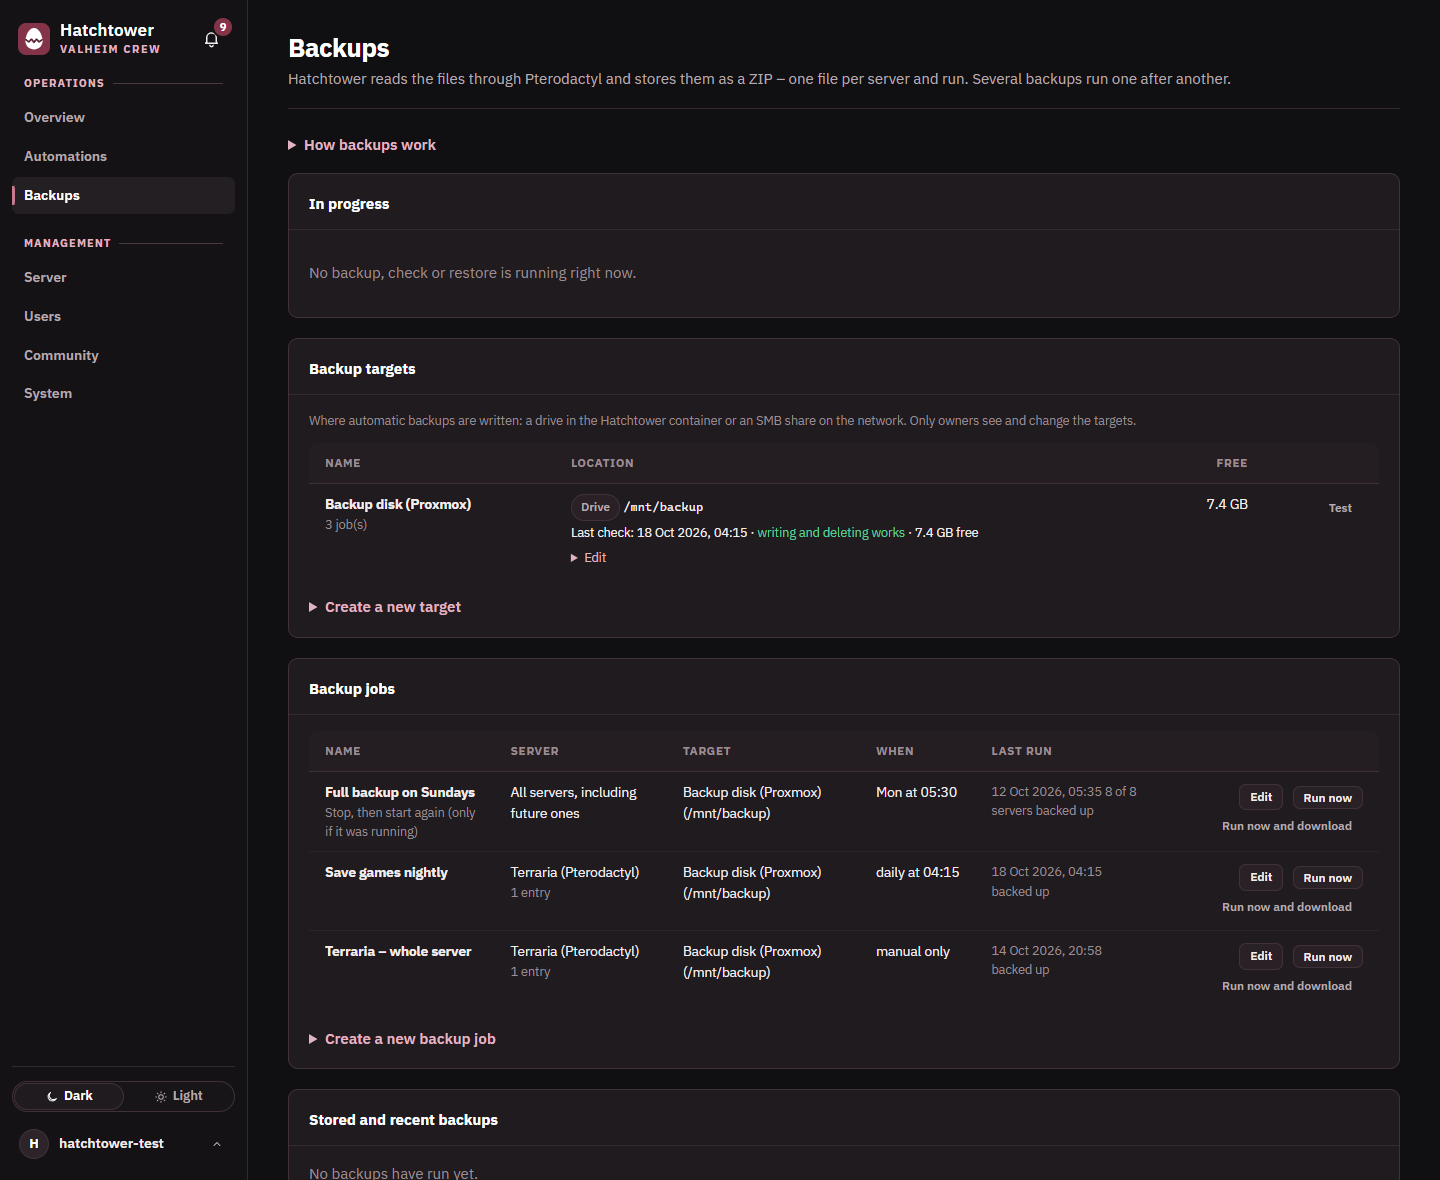
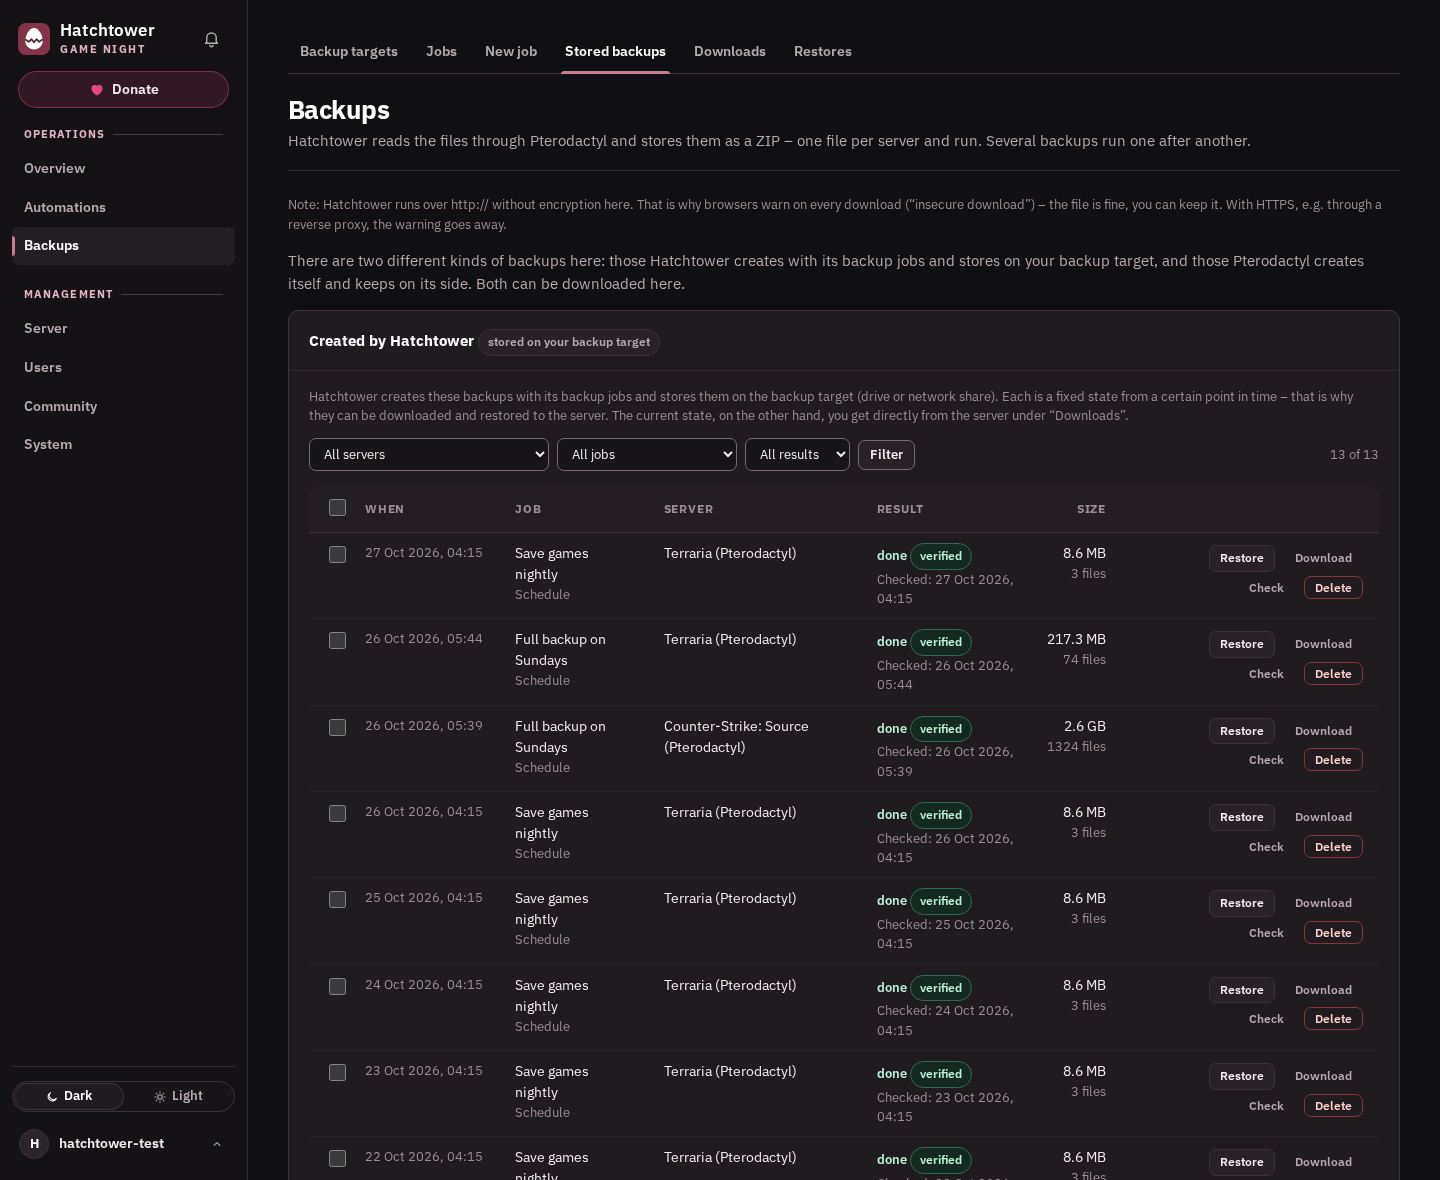
Version 0.42.0: donations, backup and automation improvements, README and screenshots up to date

diff --git a/app/hatchtower/__init__.py b/app/hatchtower/__init__.py
@@ -1,4 +1,4 @@
 """Hatchtower - Management und Monitoring für Pterodactyl-Game-Server."""
 
 APP_NAME = "Hatchtower"
-__version__ = "0.42.0-pre.5"
+__version__ = "0.42.0"

diff --git a/README.de.md b/README.de.md
@@ -72,14 +72,20 @@ deshalb Hatchtower: eine kleine, sichere Haustür, hinter der das Panel im Heimn
 
 - **Einfache Ansicht** für Freunde: Status, Adresse, Beitritts-Passwort, Starten/Neustarten – auch am Handy
 - **Übersicht** mit CPU, RAM und Speicher live, Favoriten und Tags; Serverseite mit Verlauf, Verfügbarkeit und **Live-Konsole**
+- **Spielstand mit einem Klick**: „Spielstand herunterladen“ auf der Serverseite, als ZIP des aktuellen Stands
 - **Reiter Spieler**: Ist jemand online? Aus der Query des Spiels (Steam, Minecraft) oder der Konsole, sonst aus dem
   Netzwerk-Traffic geschätzt – immer mit der Quelle, die entschieden hat, und einem kurzen Verlauf
 - **Dateiverwaltung**: ansehen, hochladen, herunterladen (auch als ZIP), bearbeiten, umbenennen, löschen
 - **Rechte pro Benutzer und Server**, Rechtegruppen im direkten Vergleich und **Einladungslinks**
-- **Automationen**: Neustart nach Absturz, geplantes Starten/Stoppen/Neustarten mit Vorwarnung im Spiel
-- **Backups** auf ein Laufwerk oder eine SMB-Freigabe, nach dem Schreiben geprüft und mit wenigen Klicks **wiederherstellbar**
-- **Benachrichtigungen** in der Oberfläche (Glocke mit Verlauf), per Discord/Webhook und E-Mail; **Audit-Log**,
+- **Automationen**: Neustart nach Absturz, geplantes Starten/Stoppen/Neustarten mit Vorwarnung im Spiel, Zeitpläne
+  bearbeitbar, Verlauf aller Ausführungen
+- **Backups** auf ein Laufwerk oder eine SMB-Freigabe, nach dem Schreiben geprüft und mit wenigen Klicks
+  **wiederherstellbar**; auch die Backups des Panels lassen sich herunterladen
+- **Benachrichtigungen** in der Oberfläche (Glocke mit Filtern), per Discord/Webhook und E-Mail; **Audit-Log**,
   optionale **öffentliche Statusseite**
+- **Support-Bericht** ohne Keys und Passwörter, um Hilfe zu bekommen
+- **Spenden-Knopf** und Unterstützerliste (optional, z. B. mit PayPal), um Serverkosten mit Freunden zu teilen
+- **Als App nutzbar** auf Handy und Tablet (zum Home-Bildschirm hinzufügen)
 - **Server-Administration** (optional): Server anlegen, Ressourcen, Ports und Startparameter ändern
 - **Read-Only-Modus**, eigener Name und Logo, dunkles und helles Farbschema, Deutsch und Englisch
 
@@ -111,9 +117,9 @@ Alle Screenshots zeigen ein Test-Panel mit erfundenen Servern und Benutzern.
 
 <img src="docs/screenshots/permission-groups.png" alt="Rechtegruppen in einer Tabelle verglichen" width="100%">
 
-**Backups**
+**Backups** – gespeichert, geprüft, bereit zum Wiederherstellen oder Herunterladen.
 
-<img src="docs/screenshots/backups.png" alt="Backup-Seite" width="100%">
+<img src="docs/screenshots/backups.png" alt="Gespeicherte Backups mit Prüfung" width="100%">
 
 <table>
   <tr>
@@ -234,8 +240,14 @@ Jedes Recht wird bei jeder Anfrage auf dem Server geprüft – ein ausgeblendete
 
 1. **Backup-Ziel** (nur Owner): ein Laufwerk unter `/mnt`, `/media` oder `/srv` oder eine **SMB-Freigabe**.
 2. **Backup-Job**: was (ganzer Server oder Ordner), wohin und wann (von Hand oder nach Zeitplan).
-   Auf Wunsch wird der Server vorher gestoppt und danach wieder gestartet.
-3. Jeder Lauf schreibt **ein ZIP pro Server** und prüft es direkt danach.
+   Auf Wunsch wird der Server vorher gestoppt und danach wieder gestartet oder vorher ein Speicherbefehl gesendet.
+3. Jeder Lauf schreibt **ein ZIP pro Server** und prüft es direkt danach. Eine Liste im ZIP
+   (`HATCHTOWER-PATHS.txt`) zeigt, woher jede Datei stammt.
+
+Ein Job **ohne Ziel** ist ein **Direkt-Download**: Er liest den aktuellen Stand vom Server und speichert nichts –
+praktisch für Freunde, die nur ihren Spielstand wollen. Backups, die das Panel selbst anlegt, stehen getrennt
+daneben und lassen sich ebenfalls über Hatchtower herunterladen. Rechte legen fest, wer was sehen, herunterladen,
+starten oder wiederherstellen darf.
 
 **Wiederherstellen** (*Backups → gespeichertes Backup → Wiederherstellen*): entweder **in einen eigenen Ordner**
 (sicher, überschreibt nichts) oder **an den ursprünglichen Ort** (ersetzt Dateien, löscht nichts).
@@ -260,6 +272,7 @@ hatchtower update
 ```
 
 Vorher wird die Datenbank gesichert; startet die neue Version nicht, geht Hatchtower automatisch zurück.
+Vorab-Versionen gibt es nur, wenn unter **System → Updates** **Vorab-Versionen erhalten** eingeschaltet ist.
 Was sich geändert hat, steht unter [Releases](https://github.com/skaot1910/hatchtower/releases).
 
 <details>
@@ -290,12 +303,14 @@ Danach die Hatchtower-API-Keys im Panel löschen. Backups auf dem Backup-Laufwer
 | Backup-Ziel nicht beschreibbar | Den `chown`-Befehl aus der Meldung auf dem **Proxmox-Host** ausführen |
 | Owner-Passwort vergessen | `hatchtower reset-password` |
 | Etwas anderes | `hatchtower selftest`, `journalctl -u hatchtower -f` |
+| Hilfe holen | Support-Bericht anhängen (**System → Status** oder `hatchtower support`) – ohne Keys und Passwörter |
 
 ## 12. Sicherheit
 
 - Aus dem Internet nur über einen **Reverse-Proxy mit HTTPS** (Caddy, Nginx, Pangolin …) und dessen IP unter
   **System → Netzwerk → Reverse-Proxy-IPs** eintragen – siehe [Reverse-Proxy und Pangolin](docs/reverse-proxy.de.md).
 - Das **Panel privat lassen**; nur Hatchtower muss erreichbar sein.
+- Zu Hause laufen Downloads nach außen über deinen Upload; begrenzen unter **System → Netzwerk**.
 - Den Client-Key schützen (eigener Benutzer, Allowed IPs, 2FA).
 - Die Einrichtung gleich nach der Installation abschließen und nur nötige Rechte vergeben.
 
@@ -327,6 +342,7 @@ für Ingame-Servernamen und Spielerzahl) und mit den Webhooks und dem Mailserver
 |---|---|
 | `hatchtower update` | Neueste Version installieren (`--check` prüft nur) |
 | `hatchtower selftest` | Verbindung zu Panel und Wings prüfen |
+| `hatchtower support` | Support-Bericht schreiben (Adressen ersetzt, `--full` behält sie) |
 | `hatchtower version` | Installierte Version anzeigen |
 | `hatchtower reset-password` | Passwort zurücksetzen und Konto entsperren |
 | `hatchtower setup-token` | Neuer Einrichtungscode (nur solange es kein Konto gibt) |

diff --git a/README.md b/README.md
@@ -69,14 +69,20 @@ door that keeps the panel inside the home network.
 
 - **Simple view** for friends: status, address, join password, start/restart – also on phones
 - **Overview** with live CPU, RAM and disk, favourites and tags; server page with history, uptime and **live console**
+- **Save game in one click**: "Download save game" on the server page, as a ZIP of the current state
 - **Players tab**: is anyone online? Read from the game's query (Steam, Minecraft) or console, otherwise estimated
   from network traffic – always showing which source decided, with a short history
 - **File manager**: view, upload, download (also as ZIP), edit, rename, delete
 - **Permissions per user and server**, permission groups compared side by side, and **invite links**
-- **Automations**: restart after a crash, scheduled starts/stops/restarts with in-game warning
-- **Backups** to a drive or SMB share, checked after writing and **restorable** in a few clicks
-- **Notifications** in the web interface (bell with history), via Discord/webhook and email; **audit log**,
+- **Automations**: restart after a crash, scheduled starts/stops/restarts with in-game warning, editable schedules
+  and a history of every run
+- **Backups** to a drive or SMB share, checked after writing and **restorable** in a few clicks; the panel's own
+  backups can be downloaded too
+- **Notifications** in the web interface (bell with filters), via Discord/webhook and email; **audit log**,
   optional **public status page**
+- **Support report** without keys or passwords, for asking for help
+- **Donate button** and supporter list (optional, e.g. with PayPal) to share server costs with your friends
+- **Works as an app** on phones and tablets (add to home screen)
 - **Server administration** (optional): create servers, change resources, ports and startup parameters
 - **Read-only mode**, own name and logo, dark and light theme, English and German
 
@@ -108,9 +114,9 @@ All screenshots use a test panel with made-up servers and users.
 
 <img src="docs/screenshots/permission-groups.png" alt="Permission groups compared in one table" width="100%">
 
-**Backups**
+**Backups** – stored, verified and ready to restore or download.
 
-<img src="docs/screenshots/backups.png" alt="Backups page" width="100%">
+<img src="docs/screenshots/backups.png" alt="Stored backups with verification" width="100%">
 
 <table>
   <tr>
@@ -230,8 +236,14 @@ Every permission is checked on the server for every request – hiding a button 
 
 1. **Backup target** (owners only): a drive under `/mnt`, `/media` or `/srv`, or an **SMB share**.
 2. **Backup job**: what (whole server or folders), where and when (manually or on a schedule).
-   Optionally the server is stopped first and restarted afterwards.
-3. Each run writes **one ZIP per server**, verified right after writing.
+   Optionally the server is stopped first and restarted afterwards, or a save command is sent first.
+3. Each run writes **one ZIP per server**, verified right after writing. A list inside the ZIP
+   (`HATCHTOWER-PATHS.txt`) shows where each file came from.
+
+A job **without a target** is a **direct download**: it reads the current state from the server and stores
+nothing – handy for friends who only want their save game. Backups made by the panel itself are listed
+separately and can be downloaded through Hatchtower as well. Permissions decide who may see, download, start or
+restore what.
 
 **Restore** (*Backups → stored backup → Restore*): either **into a separate folder** (safe, overwrites
 nothing) or **to the original place** (replaces files, deletes nothing).
@@ -255,6 +267,7 @@ hatchtower update
 ```
 
 The database is backed up first; if the new version does not start, Hatchtower rolls back automatically.
+Pre-releases are only offered if you switch on **Receive pre-releases** under **System → Updates**.
 What changed is listed under [Releases](https://github.com/skaot1910/hatchtower/releases).
 
 <details>
@@ -285,12 +298,14 @@ Then delete the Hatchtower API keys in your panel. Backups on your backup drive 
 | Backup target not writable | Run the `chown` command from the message on the **Proxmox host** |
 | Forgot owner password | `hatchtower reset-password` |
 | Anything else | `hatchtower selftest`, `journalctl -u hatchtower -f` |
+| Asking for help | Attach a support report (**System → Status** or `hatchtower support`) – it contains no keys or passwords |
 
 ## 12. Security
 
 - From the internet only via a **reverse proxy with HTTPS** (Caddy, Nginx, Pangolin …) and enter its IP
   under **System → Network → Reverse proxy IPs** – see [Reverse proxy and Pangolin](docs/reverse-proxy.md).
 - Keep the **panel private**; only Hatchtower needs to be reachable.
+- At home, downloads to the outside use your upload; cap them under **System → Network** if needed.
 - Protect the client key (dedicated user, Allowed IPs, 2FA).
 - Finish the setup right after installing and give people only the permissions they need.
 
@@ -321,6 +336,7 @@ webhooks and mail server you set up.
 |---|---|
 | `hatchtower update` | Install the newest version (`--check` only checks) |
 | `hatchtower selftest` | Check the connection to panel and Wings |
+| `hatchtower support` | Write a support report (addresses replaced, `--full` keeps them) |
 | `hatchtower version` | Show the installed version |
 | `hatchtower reset-password` | Reset a password and unlock the account |
 | `hatchtower setup-token` | New setup code (only while no account exists) |

diff --git a/CHANGELOG.md b/CHANGELOG.md
@@ -3,9 +3,12 @@
 Newest entries first. The "## <version>" sections are used automatically as the description of the GitHub release
 when publishing (`tools/release.sh`).
 
-## 0.42.0-pre.5 – 2026-10-27
+## 0.42.0 – 2026-10-27
 
-- Donations: owners can add a donate link (e.g. a PayPal donate button or PayPal.Me link) under Community →
+Includes everything from 0.42.0-pre.1 to 0.42.0-pre.5.
+
+**Donations**
+- Owners can add a donate link (e.g. a PayPal donate button or PayPal.Me link) under Community →
   Donate, with an optional short text. It can be shown in Hatchtower (a "Donate" button at the top of the sidebar,
   in the top bar on phones) and/or at the end of the public status page; each place can be switched on separately
 - Supporter list: owners record donations by hand (PayPal does not report them to Hatchtower) with name (optional),
@@ -13,28 +16,30 @@ when publishing (`tools/release.sh`).
   date, amount); without the name every donation shows as "Anonymous". The last 20 donations are listed, totals per
   currency are only visible to owners. Changes are in the audit log and donations are part of the data export
 
-## 0.42.0-pre.4 – 2026-10-27
-
+**Backups**
 - New backup job: the servers come first. Pick the servers the job is for (owners can also pick "All servers,
   including future ones") and whether they are backed up completely or only certain folders and files, then name
   and target. Complete servers are added right away; for folders and files the file browser of the first picked
   server opens next. Creating a job without a server is no longer possible
+- Path list in every ZIP: backups (stored and direct downloads) and ZIP downloads of a selection in the file manager
+  now contain `HATCHTOWER-PATHS.txt` with the server, the date and the full server path of each selected file or
+  folder (folders end in `/`), so single files and folders can be put back where they came from. Only the selected
+  entries are listed, not their contents; jobs with several servers get one list per server folder. Restoring a
+  backup skips the list
+- Backups made by the panel whose file is missing on the node can be deleted right in the list ("Delete", with
+  "Manage backup jobs"). This removes the dead entry in the panel; intact or locked backups are still deleted in
+  the panel itself
 
-## 0.42.0-pre.3 – 2026-10-27
-
-- Automations: new tab "History" with every schedule run, warning, crash and change to a schedule, filterable by
+**Automations**
+- New tab "History" with every schedule run, warning, crash and change to a schedule, filterable by
   type, server, result and keyword (50 entries per page). Users without the owner role only see the servers they
   may automate. It is read from the audit log, so it reaches back as far as the audit log is kept. Each schedule
   has a "History" link that opens it filtered to that schedule
 - Schedules can be edited: "Edit" opens the same form as creating one, prefilled. It is checked the same way and
   needs the permission for the old and the new action; the schedule keeps its creator and whether it is paused. A
   new time or day counts as a new appointment. Every change is in the audit log with the changed fields
-- Backups made by the panel whose file is missing on the node can be deleted right in the list ("Delete", with
-  "Manage backup jobs"). This removes the dead entry in the panel; intact or locked backups are still deleted in
-  the panel itself
 
-## 0.42.0-pre.2 – 2026-10-27
-
+**Updates**
 - Update from the web interface no longer stuck on "An update is running": if the update helper was killed before
   it could record the result (e.g. the container was restarted during the update), the leftover state is now
   recognised as interrupted – when no helper process runs any more, or at the latest after 35 minutes. The progress
@@ -42,13 +47,8 @@ when publishing (`tools/release.sh`).
 - Restarting the service waits at most a few seconds for open connections (console, status, downloads) instead of
   up to 90 seconds, so updates no longer hang at "Starting the service" while browser tabs are open
 
-## 0.42.0-pre.1 – 2026-10-27
-
-- Path list in every ZIP: backups (stored and direct downloads) and ZIP downloads of a selection in the file manager
-  now contain `HATCHTOWER-PATHS.txt` with the server, the date and the full server path of each selected file or
-  folder (folders end in `/`), so single files and folders can be put back where they came from. Only the selected
-  entries are listed, not their contents; jobs with several servers get one list per server folder. Restoring a
-  backup skips the list
+**README**
+- Features, backups, updates and troubleshooting brought up to date, new screenshots
 
 ## 0.41.1 – 2026-10-25
 
